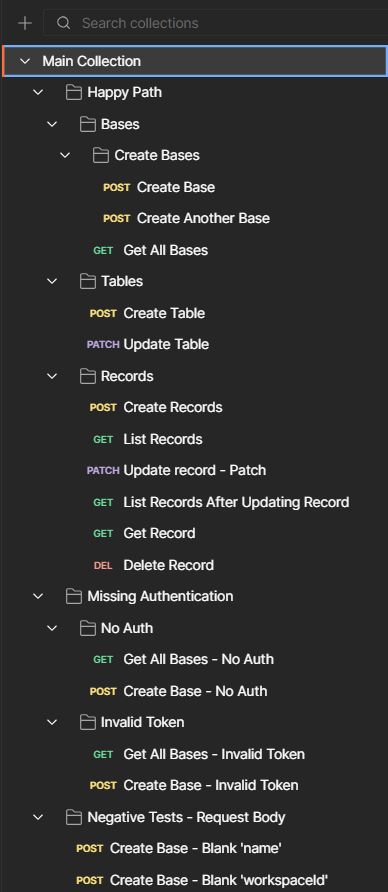
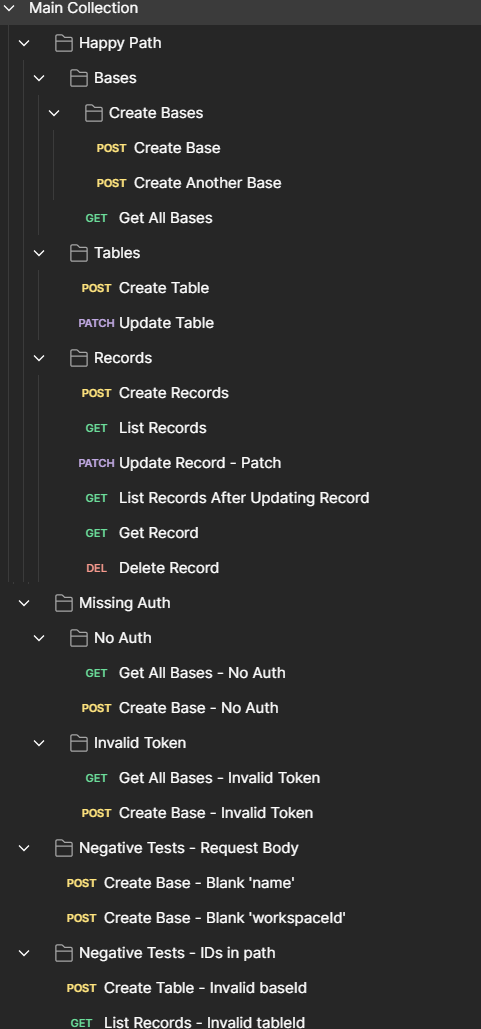
Add negative tests for invalid IDs; Update README and screenshot; Add small corrections and clarifications

Changed region(s): [[0.0, 0.0, 1.0, 1.0]]

diff --git a/README.md b/README.md
@@ -1,4 +1,4 @@
-# REST API Testing (WIP)
+# REST API Testing
 **Testing the Airtable REST API with Postman**
 
 ## What Tests Include
@@ -22,7 +22,7 @@
 10. Get Record
 11. Delete Record
 
-### Missing Authentication
+### Missing Auth
 1. Get All Bases - No Auth
 2. Create Base - No Auth
 3. Get All Bases - Invalid Token
@@ -32,8 +32,9 @@
 1. Create Base - Blank 'name'
 2. Create Base - Blank 'workspaceId'
 
+### Negative Tests - IDs in path
+1. Create Table - Invalid baseId
+2. List Records - Invalid tableId
+
 ### Screenshots
-<img src="screenshot_22_02_2026.png" width="480">
-
-
-
+<img src="screenshot_22_02_2026.png" width="520">
